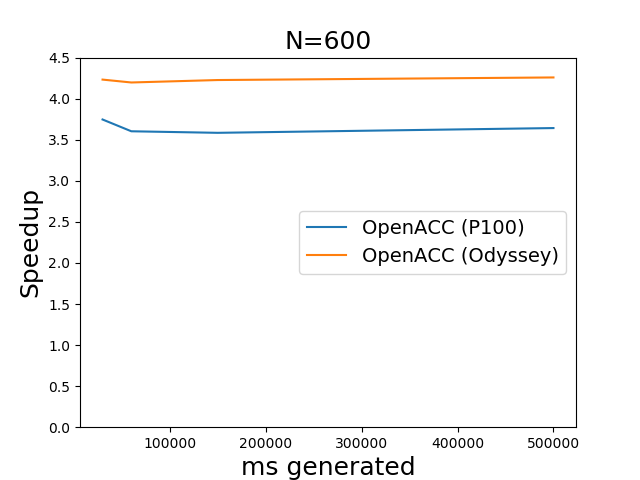
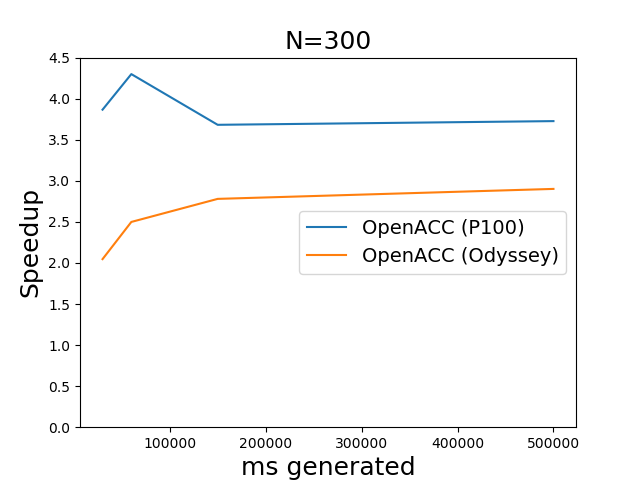
fixed errors in p100 plots

diff --git a/README.md b/README.md
@@ -257,7 +257,7 @@ To further explore ways in which we can improve the execution of our simulation 
 
 <p><img src="https://github.com/yonglid/CS205-Final-Project/blob/master/p100N300speedup.png" width="400" style="float: left;"><img src="https://github.com/yonglid/CS205-Final-Project/blob/master/p100N600speedup.png" width="400" style="float: right;"></p>
 
-As can be seen from the data, the execution of both our serial and OpenACC paralellized models demonstrated noticeably more throughput with the P100 GPUs than with the GPUs available in Odyssey. In addition, we observe differences in the amount of speedup of the program between the two machines. When comparing the C serial implementation of the program with the OpenACC model within the context of the machines on which they are executed, it appears as if the speedup achieved by the OpenACC implementation on the P100 GPUs in Bridges is lower than that of the GPUs used in Odyssey when N = 300. However, once we increase the problem size to N = 600, the speedup achieved on the P100 GPUs appears to be greater than the speedup observed in Odyssey.
+As can be seen from the data, the execution of both our serial and OpenACC paralellized models demonstrated noticeably more throughput with the P100 GPUs than with the GPUs available in Odyssey. In addition, we observe differences in the amount of speedup of the program between the two machines. When comparing the C serial implementation of the program with the OpenACC model within the context of the machines on which they are executed, it appears as if the speedup achieved by the OpenACC implementation on the P100 GPUs in Bridges is greater than that of the GPUs used in Odyssey when N = 300. However, once we increase the problem size to N = 600, the speedup achieved on the P100 GPUs appears to be less than the speedup observed in Odyssey.
 
 ### Modeling: The Lattice Boltzmann Model (LBM) [Click here to see the python code](https://github.com/yonglid/CS205-Final-Project/blob/master/Lattice_Boltzmann.py)
 
